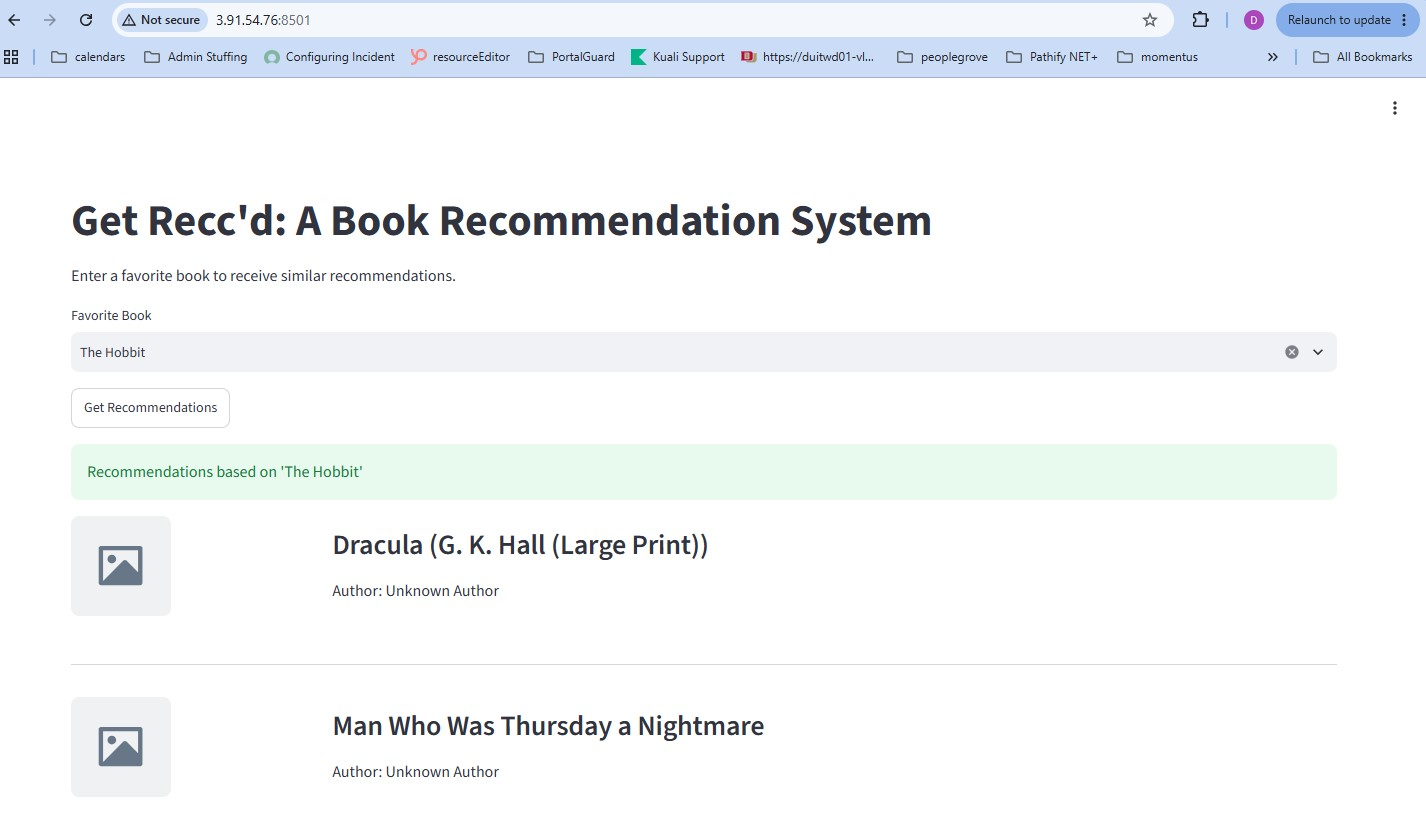
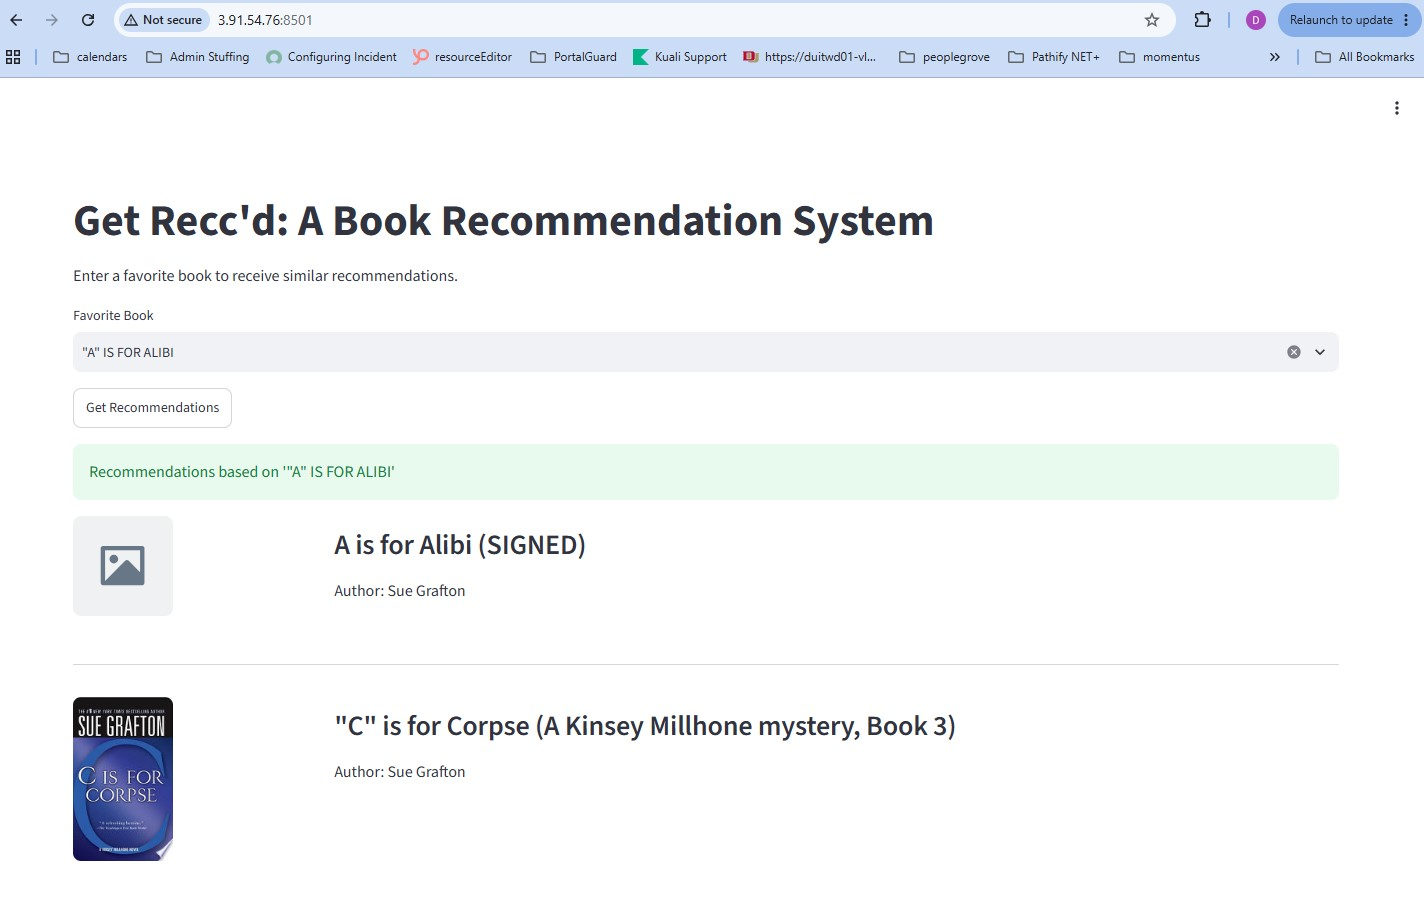
Read monitoring metrics from AWS DynamoDB

diff --git a/src/monitoring/dashboard.py b/src/monitoring/dashboard.py
@@ -1,6 +1,6 @@
 from pathlib import Path
 import json
-
+import boto3
 import pandas as pd
 import streamlit as st
 
@@ -8,18 +8,17 @@ import streamlit as st
 # Configuration
 # ============================================================
 
-PROJECT_ROOT = Path(__file__).resolve().parents[2]
-
-LOG_FILE = (
-    PROJECT_ROOT
-    / "logs"
-    / "prediction_logs.jsonl"
+dynamodb = boto3.resource(
+    "dynamodb",
+    region_name="us-east-1"
 )
 
-CACHE_FILE = (
-    PROJECT_ROOT
-    / "logs"
-    / "recommendation_cache.json"
+prediction_table = dynamodb.Table(
+    "prediction-history"
+)
+
+cache_table = dynamodb.Table(
+    "recommendation-cache"
 )
 
 # ============================================================
@@ -28,62 +27,63 @@ CACHE_FILE = (
 
 def load_prediction_logs():
 
-    records = []
+    try:
 
-    if not LOG_FILE.exists():
-        return pd.DataFrame()
+        response = prediction_table.scan()
 
-    with open(
-        LOG_FILE,
-        "r",
-        encoding="utf-8"
-    ) as f:
-
-        for line in f:
-
-            line = line.strip()
-
-            if not line:
-                continue
-
-            try:
-                records.append(
-                    json.loads(line)
-                )
-
-            except json.JSONDecodeError:
-                pass
-
-    if not records:
-        return pd.DataFrame()
-
-    df = pd.DataFrame(records)
-
-    if "timestamp" in df.columns:
-
-        df["timestamp"] = pd.to_datetime(
-            df["timestamp"]
+        records = response.get(
+            "Items",
+            []
         )
 
-    return df
+        if not records:
+            return pd.DataFrame()
+
+        df = pd.DataFrame(records)
+
+        if "timestamp" in df.columns:
+
+            df["timestamp"] = pd.to_datetime(
+                df["timestamp"]
+            )
+
+        return df
+
+    except Exception as e:
+
+        st.error(
+            f"Failed to load prediction data: {e}"
+        )
+
+        return pd.DataFrame()
 
 
 def load_cache():
 
-    if not CACHE_FILE.exists():
-        return {}
-
     try:
 
-        with open(
-            CACHE_FILE,
-            "r",
-            encoding="utf-8"
-        ) as f:
+        response = cache_table.scan()
 
-            return json.load(f)
+        items = response.get(
+            "Items",
+            []
+        )
 
-    except Exception:
+        return {
+            item["favorite_book"]:
+                item.get(
+                    "recommendations",
+                    []
+                )
+            for item in items
+        }
+
+    except Exception as e:
+
+        st.error(
+            f"Failed to load cache data: {e}"
+        )
+
         return {}
 
 
